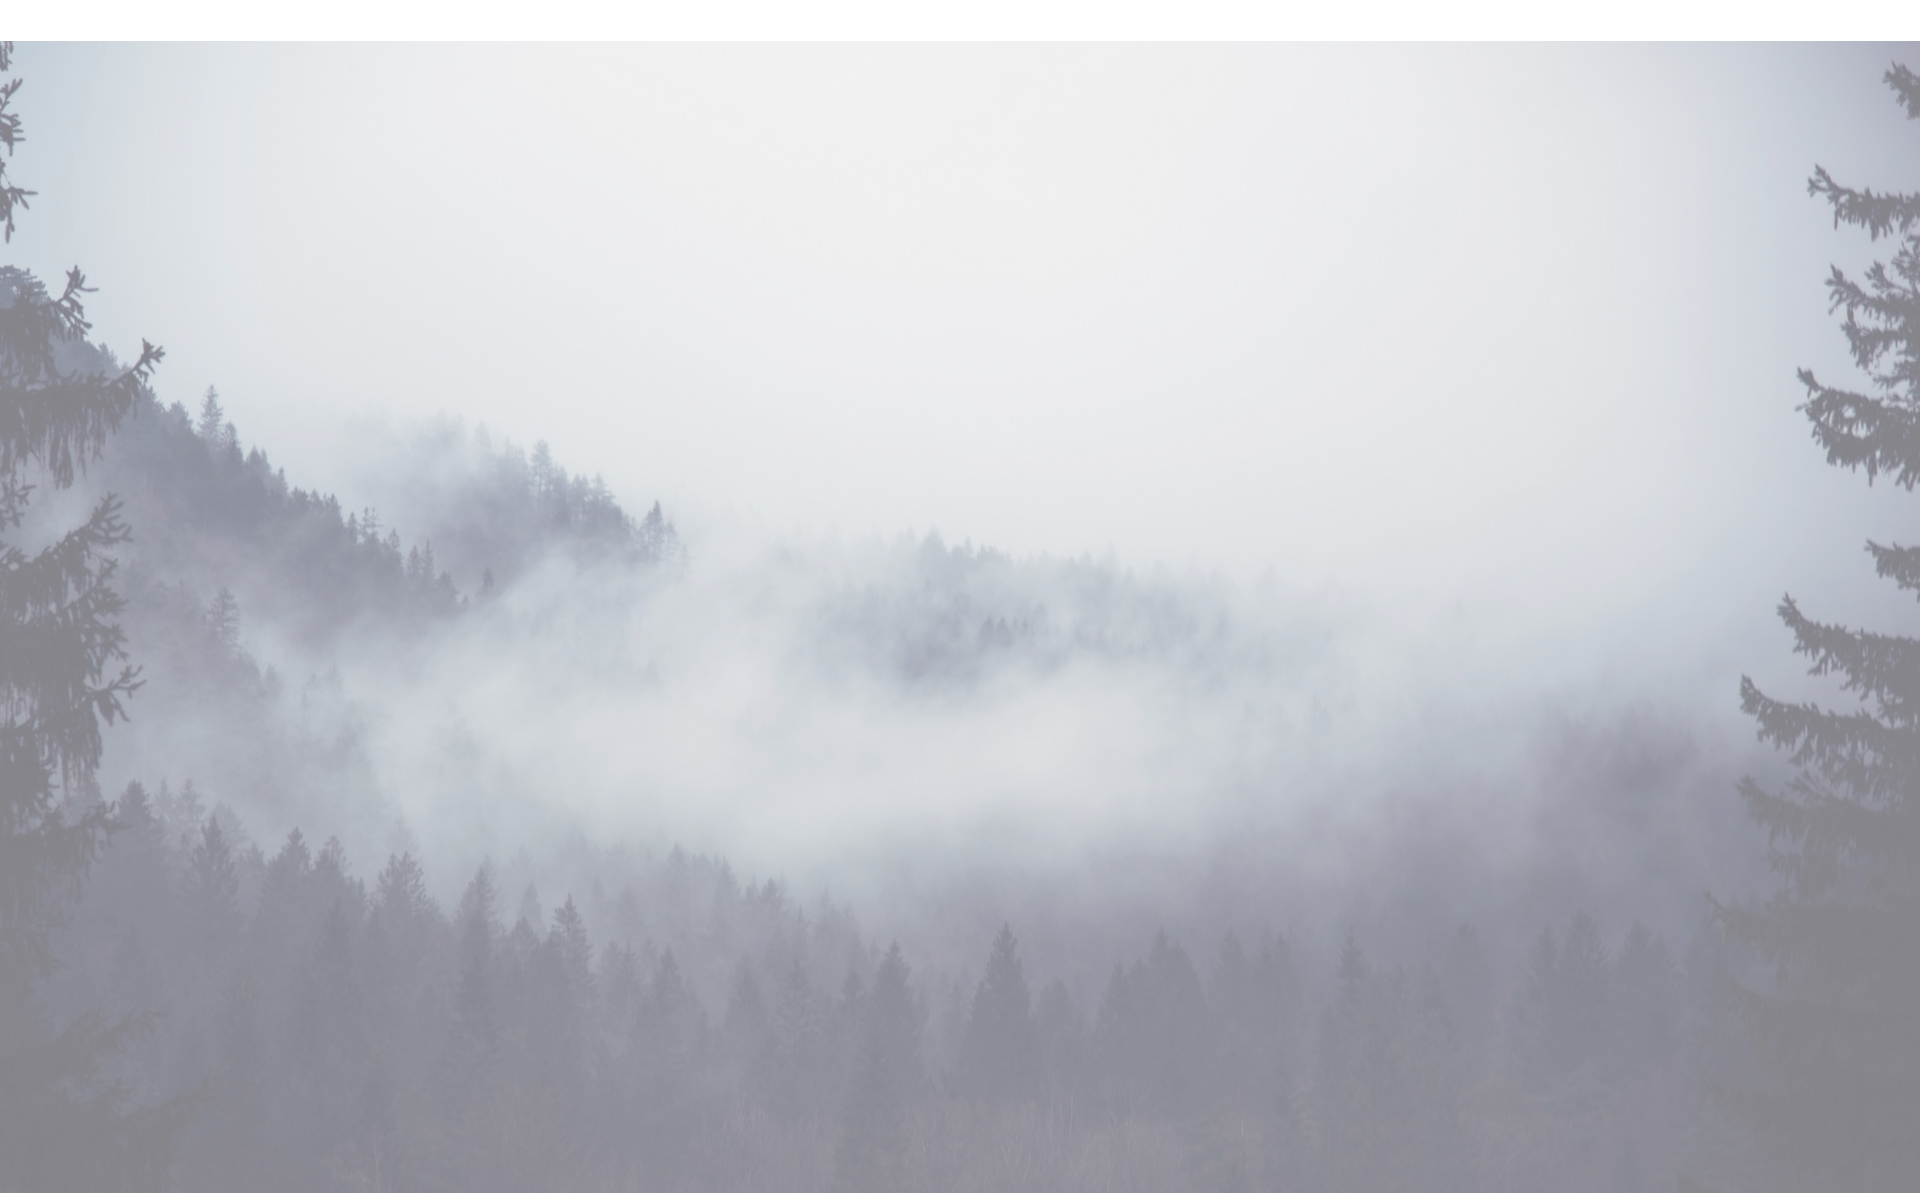
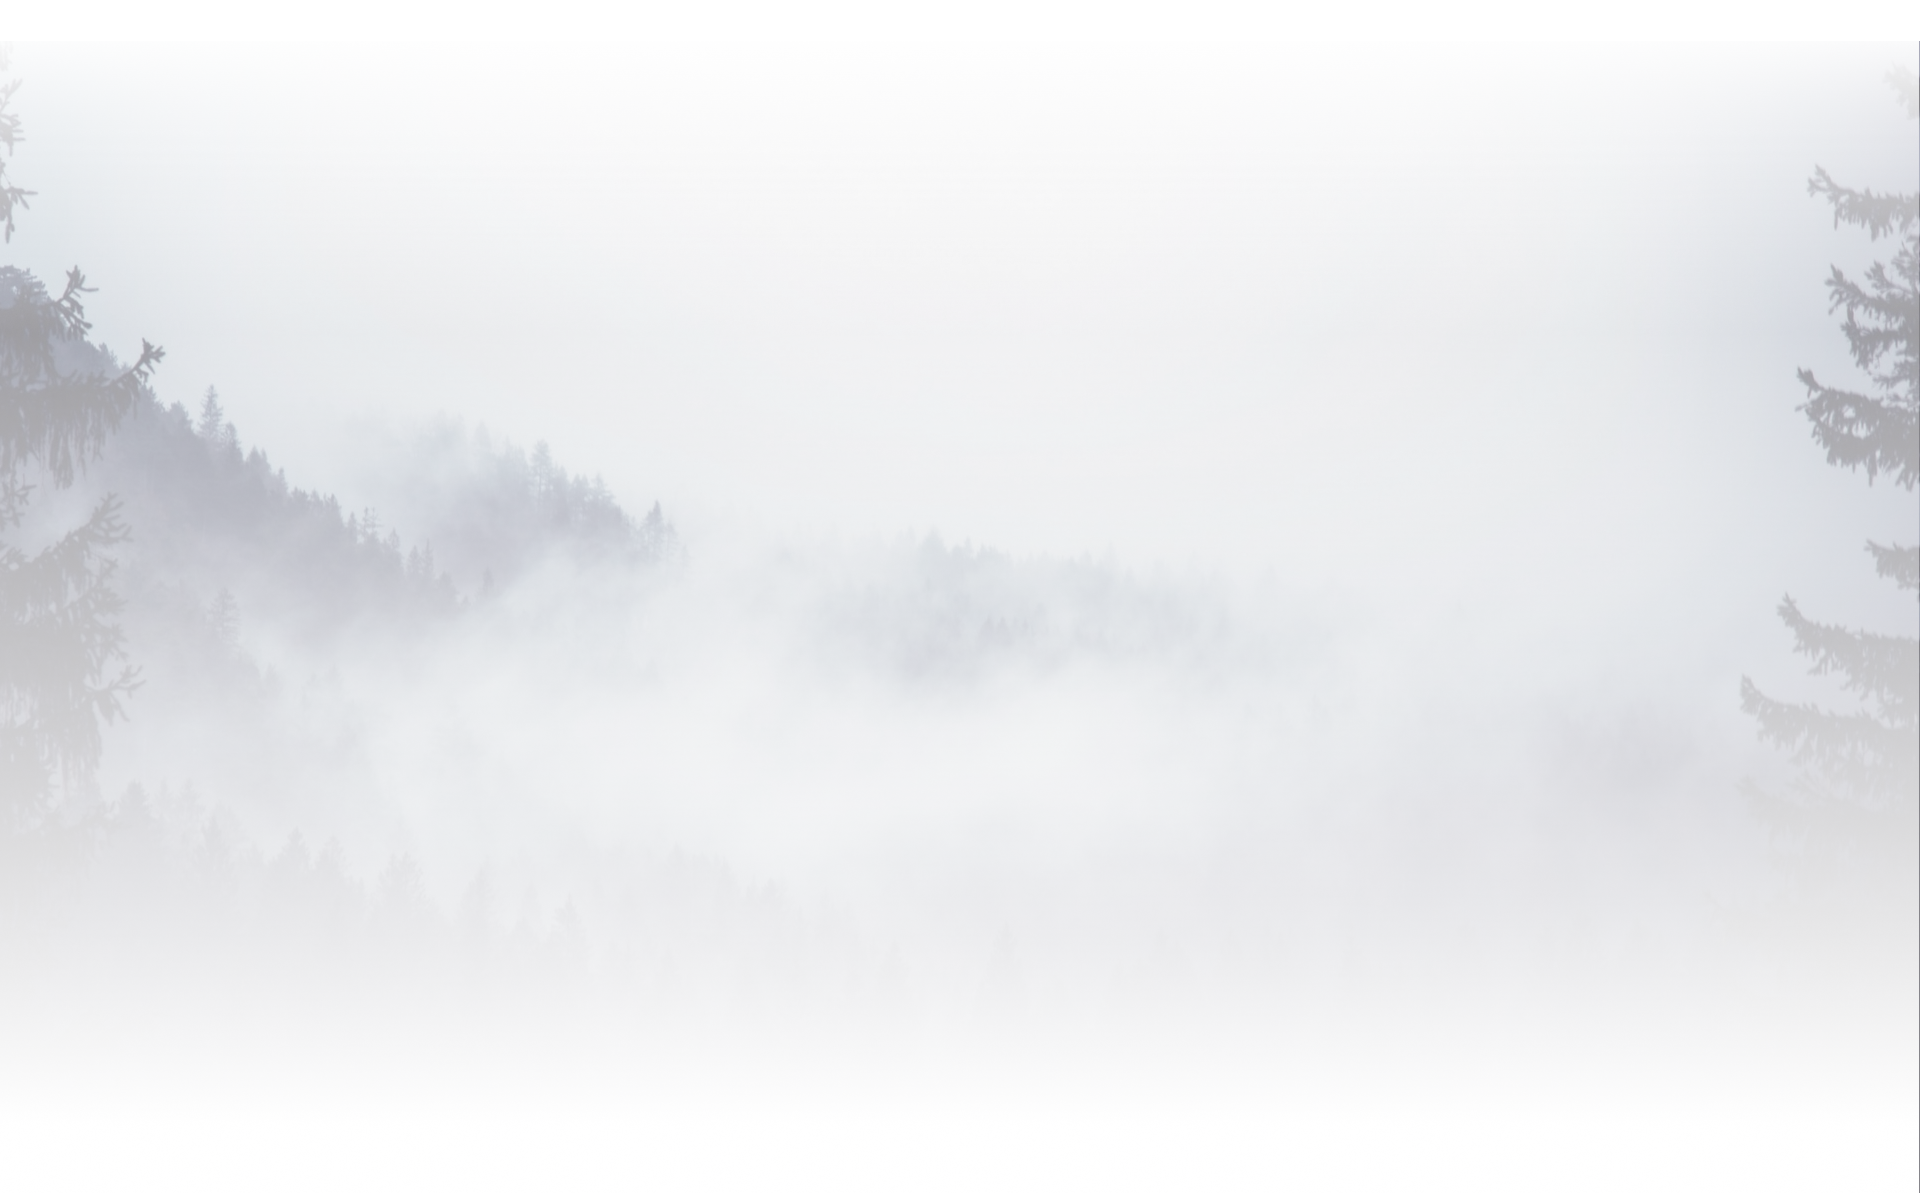
added main bg & fix

diff --git a/marmelad/_blocks/projects-block/projects-block.html b/marmelad/_blocks/projects-block/projects-block.html
@@ -18,7 +18,7 @@
       </div>
       <div elem="items">
         <div elem="item">
-          <a block="project-thumb" href="#" style="background-image: url(../img/project-thumb-bg.jpg);">
+          <a block="project-thumb" href="#" style="background-image: url(img/project-thumb-bg.jpg);">
             <span elem="body">
               <span elem="info">
                 <span elem="likes">
@@ -39,7 +39,7 @@
           </a><!-- project-thumb -->
         </div>
         <div elem="item">
-          <a block="project-thumb" href="#" style="background-image: url(../img/project-thumb-bg.jpg);">
+          <a block="project-thumb" href="#" style="background-image: url(img/project-thumb-bg.jpg);">
             <span elem="body">
               <span elem="info">
                 <span elem="likes">
@@ -60,7 +60,7 @@
           </a><!-- project-thumb -->
         </div>
         <div elem="item">
-          <a block="project-thumb" href="#" style="background-image: url(../img/project-thumb-bg.jpg);">
+          <a block="project-thumb" href="#" style="background-image: url(img/project-thumb-bg.jpg);">
             <span elem="body">
               <span elem="info">
                 <span elem="likes">
@@ -81,7 +81,7 @@
           </a><!-- project-thumb -->
         </div>
         <div elem="item">
-          <a block="project-thumb" href="#" style="background-image: url(../img/project-thumb-bg.jpg);">
+          <a block="project-thumb" href="#" style="background-image: url(img/project-thumb-bg.jpg);">
             <span elem="body">
               <span elem="info">
                 <span elem="likes">
@@ -102,7 +102,7 @@
           </a><!-- project-thumb -->
         </div>
         <div elem="item">
-          <a block="project-thumb" href="#" style="background-image: url(../img/project-thumb-bg.jpg);">
+          <a block="project-thumb" href="#" style="background-image: url(img/project-thumb-bg.jpg);">
             <span elem="body">
               <span elem="info">
                 <span elem="likes">
@@ -123,7 +123,7 @@
           </a><!-- project-thumb -->
         </div>
         <div elem="item">
-          <a block="project-thumb" href="#" style="background-image: url(../img/project-thumb-bg.jpg);">
+          <a block="project-thumb" href="#" style="background-image: url(img/project-thumb-bg.jpg);">
             <span elem="body">
               <span elem="info">
                 <span elem="likes">

diff --git a/marmelad/_pages/index.html b/marmelad/_pages/index.html
@@ -25,8 +25,10 @@ body:
 
 	{% include "share-block.html" %}
 
-	{% include "catalog.html" %}
+	<div class="main-bg">
+		{% include "catalog.html" %}
+		{% include "projects-block.html" %}
+	</div>
 
-	{% include "projects-block.html" %}
 
 {% endblock %}
